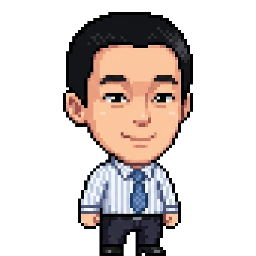
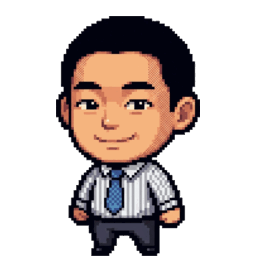
Take speaker sprites from the characters people made on clouds
Seven speakers have generated a character at clouds.sfruby.com, and it is a
better likeness than the sprite cut from their announcement card. Pulled via
/api/characters and committed as static assets: these are people's own
likenesses, so they land in the repo when someone runs the script and looks at
the result, not silently on every deploy. scripts/fetch-speaker-sprites.js is
deliberately not part of `npm run fetch-data` for that reason.

Each character is normalised to what the grid expects — 256x256 transparent,
figure ~240 tall, centred, standing on the bottom edge — matching the sprites
that cut-speaker-sprite.py produces, so the roster stays one visual family.

Quantising to a 256-colour palette takes the set from 332KB to 97KB. The
downscale leaves ~9500 colours in art drawn from a few dozen, and the error is
under 2% RMSE. Not PNG8: it would flatten alpha to on/off and chew the soft
edge the resize just created.

Irina keeps her existing sprite, by request; the opt-out is a named list in
the script rather than a deleted line, so a re-run does not undo it.

diff --git a/scripts/fetch-speaker-sprites.js b/scripts/fetch-speaker-sprites.js
@@ -1,0 +1,97 @@
+// Refresh speaker sprites from the characters people generate at
+// clouds.sfruby.com:
+//
+//     node scripts/fetch-speaker-sprites.js [--dry-run]
+//
+// Unlike the other fetch scripts this is NOT part of `npm run fetch-data`. The
+// sprites are committed assets under public/, and a generated character is a
+// person's own likeness: it lands in the repo when someone runs this and looks
+// at the result, not silently on every deploy.
+//
+// The roster's own art is a hand-cut sprite from an announcement card
+// (scripts/cut-speaker-sprite.py). A cards-app character is the same pixel
+// style at a different framing, so it is normalised to the convention the grid
+// expects: 256x256 transparent, figure ~240 tall, centred, standing on the
+// bottom edge. SpeakerRoster.astro and the hero grid both assume that square.
+import { execFileSync } from "node:child_process";
+import { writeFileSync, existsSync, statSync } from "node:fs";
+import { fileURLToPath } from "node:url";
+import { conferenceSpeakers } from "../src/data/conference-2026.js";
+import { speakerKey } from "../src/utils/cfpTalks.js";
+
+const API = "https://clouds.sfruby.com/api/characters?limit=50";
+
+// Attendees type their own names, so a few disagree with the roster the same
+// way the CFP feed does. Maps the cards-app spelling to the roster name.
+const NAME_ALIASES = { "Vova Dementyev": "Vladimir Dementyev" };
+
+// People who prefer the sprite already in the repo. Their character stays on
+// clouds.sfruby.com; the site keeps the hand-cut art.
+const KEEP_EXISTING = ["Irina Nazarova"];
+
+const dryRun = process.argv.includes("--dry-run");
+const publicDir = fileURLToPath(new URL("../public/", import.meta.url));
+
+const res = await fetch(API, { signal: AbortSignal.timeout(20_000) });
+if (!res.ok) throw new Error(`characters API: HTTP ${res.status}`);
+const { characters } = await res.json();
+
+const keepExisting = new Set(KEEP_EXISTING.map(speakerKey));
+// Only speakers already carrying a `pixel` path are rewritten: the path in
+// conference-2026.js is the file this writes, so someone without one needs a
+// roster edit first, not a silently invented filename.
+const wanted = new Map(
+  conferenceSpeakers
+    .filter((s) => s.pixel && !keepExisting.has(speakerKey(s.name)))
+    .map((s) => [speakerKey(s.name), s]),
+);
+
+let written = 0;
+for (const character of characters ?? []) {
+  const speaker = wanted.get(
+    speakerKey(NAME_ALIASES[character.name?.trim()] ?? character.name),
+  );
+  if (!speaker) continue;
+
+  const out = `${publicDir}${speaker.pixel.replace(/^\//, "")}`;
+  const before = existsSync(out) ? statSync(out).size : 0;
+
+  const image = await fetch(character.image_url, {
+    signal: AbortSignal.timeout(30_000),
+  });
+  if (!image.ok) {
+    console.warn(`  ${speaker.name}: image HTTP ${image.status}, skipped`);
+    continue;
+  }
+  const source = Buffer.from(await image.arrayBuffer());
+
+  // -trim drops the transparent margin the crop leaves, so every figure is
+  // scaled by its own height rather than by whatever padding it arrived with.
+  // Downscaled with the default filter, not point: at these ratios nearest
+  // leaves neighbouring art pixels different widths, and that jitter reads
+  // worse than a slightly softer edge.
+  //
+  // -colors 256 is the whole file-size story: the downscale leaves ~9500
+  // colours in art drawn from a few dozen, and quantising takes a sprite from
+  // ~45KB to ~12KB at an RMSE under 2%. Not PNG8, which would flatten alpha to
+  // on/off and leave the soft edge the resize just created looking chewed;
+  // a palette with tRNS keeps enough levels to hide it.
+  const sprite = execFileSync(
+    "magick",
+    ["-", "-trim", "+repage", "-resize", "x240", "-background", "none",
+     "-gravity", "south", "-extent", "256x256",
+     "-strip", "-colors", "256", "-define", "png:compression-level=9", "png:-"],
+    { input: source, maxBuffer: 32 * 1024 * 1024 },
+  );
+
+  console.log(
+    `  ${speaker.name}: ${speaker.pixel} ${(before / 1024).toFixed(0)}KB -> ${(sprite.length / 1024).toFixed(0)}KB${dryRun ? " (dry run)" : ""}`,
+  );
+  if (!dryRun) writeFileSync(out, sprite);
+  written += 1;
+}
+
+console.log(
+  `speaker-sprites: ${written} of ${wanted.size} roster sprites have a character on clouds.sfruby.com` +
+    (KEEP_EXISTING.length ? `; keeping the existing art for ${KEEP_EXISTING.join(", ")}` : ""),
+);
